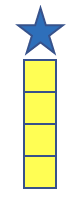
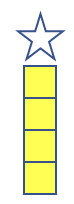
correct GUIv3

Changed region(s): [[0.1892, 0.0297, 0.8919, 0.9802]]

diff --git a/TestSpeech3.py b/TestSpeech3.py
@@ -1,0 +1,20 @@
+import speech_recognition as sr
+
+def record(givenWord):
+    word_list = []
+    recognizer = sr.Recognizer()
+    # print(sr.Microphone.list_microphone_names())
+    mic = sr.Microphone(device_index=0)
+    print("Say", givenWord, ":")
+    with mic as source:
+        audio = recognizer.listen(source)
+        recognized_dict = recognizer.recognize_google(audio, show_all=True)
+        if recognized_dict != []:
+            for index in range(len(recognized_dict.get("alternative"))):
+                word = ((recognized_dict.get("alternative"))[index]).get("transcript")
+                word_list.append(word)
+        return word_list
+
+
+if __name__ == "__main__":
+    print(record("peace"))

diff --git a/summer_work/GUIv3.py b/summer_work/GUIv3.py
@@ -57,7 +57,7 @@ class GUI(tk.Frame):
         self.recognizer = sr.Recognizer()
 
         # The devices index that we use, change the index if theres a error
-        self.mic = sr.Microphone(device_index=0)
+        self.mic = sr.Microphone(device_index=1)
 
         # The file name that we use
         self.fileName = "foodtextv3"
@@ -232,7 +232,7 @@ class GUI(tk.Frame):
 
     def updateImageScale(self):
         if self.saidWord == self.givenWord:
-            if self.finishedIndex < 5:
+            if self.finishedIndex < 4:
                 self.finishedIndex += 1
             else:
                 # Bar will restart and one star will light up
